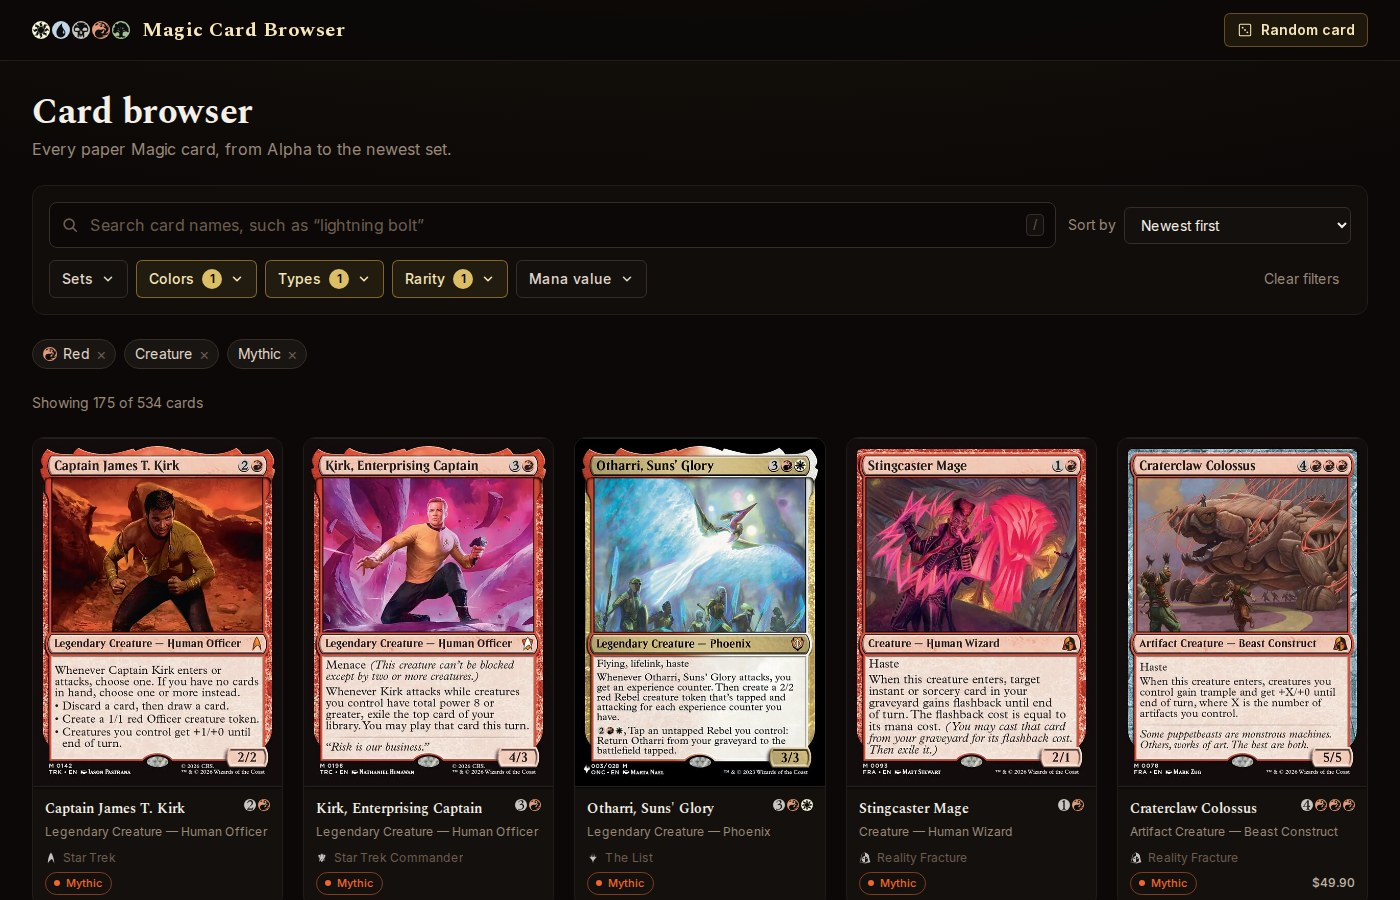
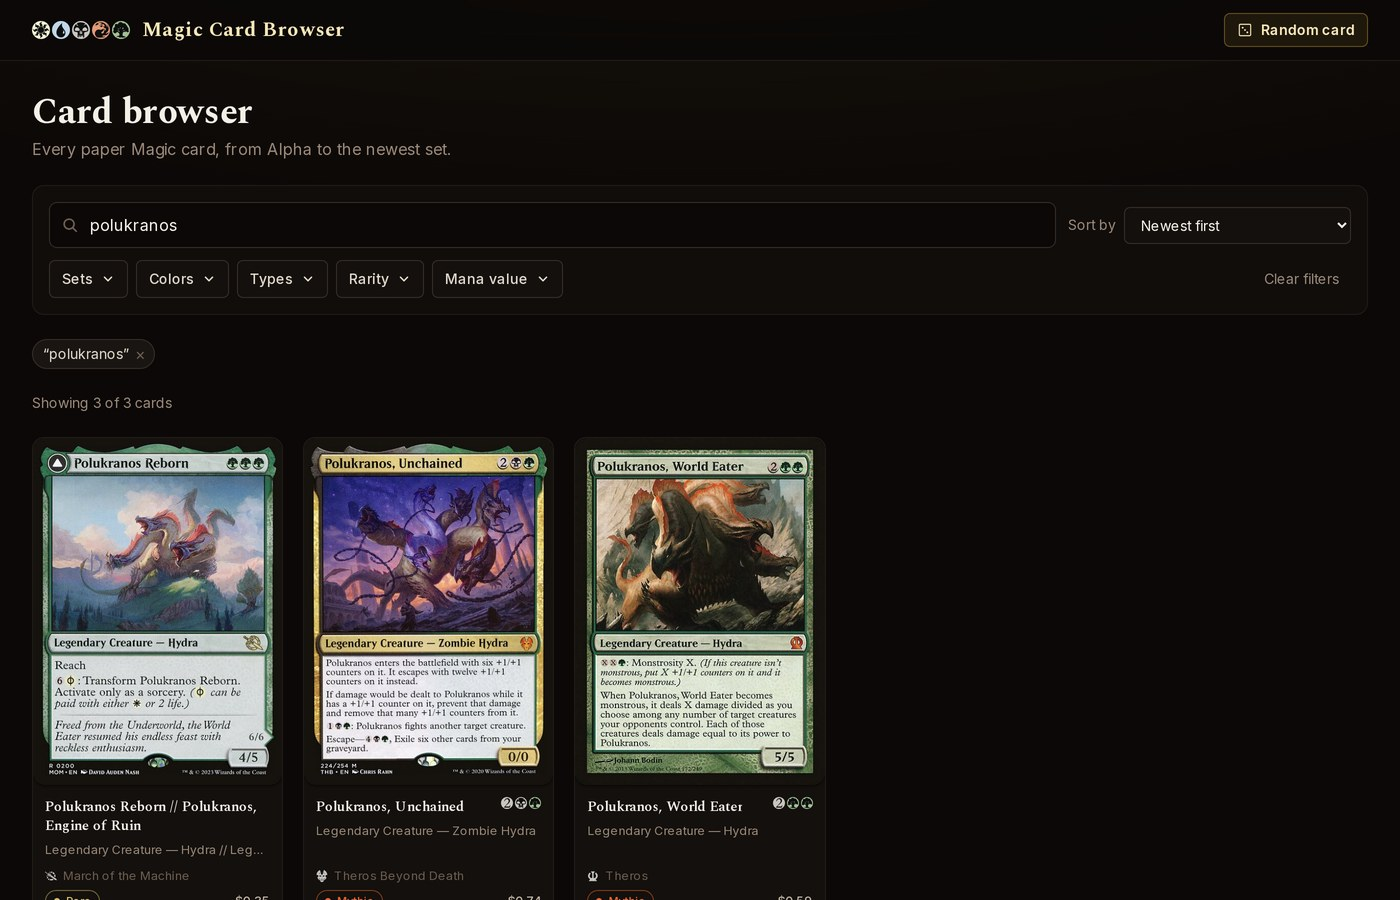
docs: retake the readme screenshots on the Polukranos search
The old screenshots showed the white corners this branch removes. The three shots now follow one path through the app: a search for Polukranos, the card page for Polukranos, Unchained, and every paper printing of it.

Generated-By: PostHog Desktop
Task-Id: a859549a-e6d2-4952-8361-b74d454a36ef

diff --git a/README.md b/README.md
@@ -6,7 +6,7 @@
 
 [Open the app](https://magic-gallery.vercel.app/) · [Report a problem](https://github.com/phillram/magic-gallery/issues)
 
-<img src="docs/browse.jpg" alt="The card browser with the red, creature, and mythic filters on" width="900">
+<img src="docs/browse.jpg" alt="The card browser with a search for Polukranos" width="900">
 
 </div>
 
@@ -26,8 +26,8 @@ Card data comes from the [Scryfall API](https://scryfall.com/docs/api). The app 
 account, no key, and no configuration.
 
 <div align="center">
-<img src="docs/card.jpg" alt="The card page for Lightning Bolt" width="900">
-<img src="docs/versions.jpg" alt="Every paper printing of Lightning Bolt, grouped by set" width="900">
+<img src="docs/card.jpg" alt="The card page for Polukranos, Unchained" width="900">
+<img src="docs/versions.jpg" alt="Every paper printing of Polukranos, Unchained, grouped by set" width="900">
 </div>
 
 ## Run it
